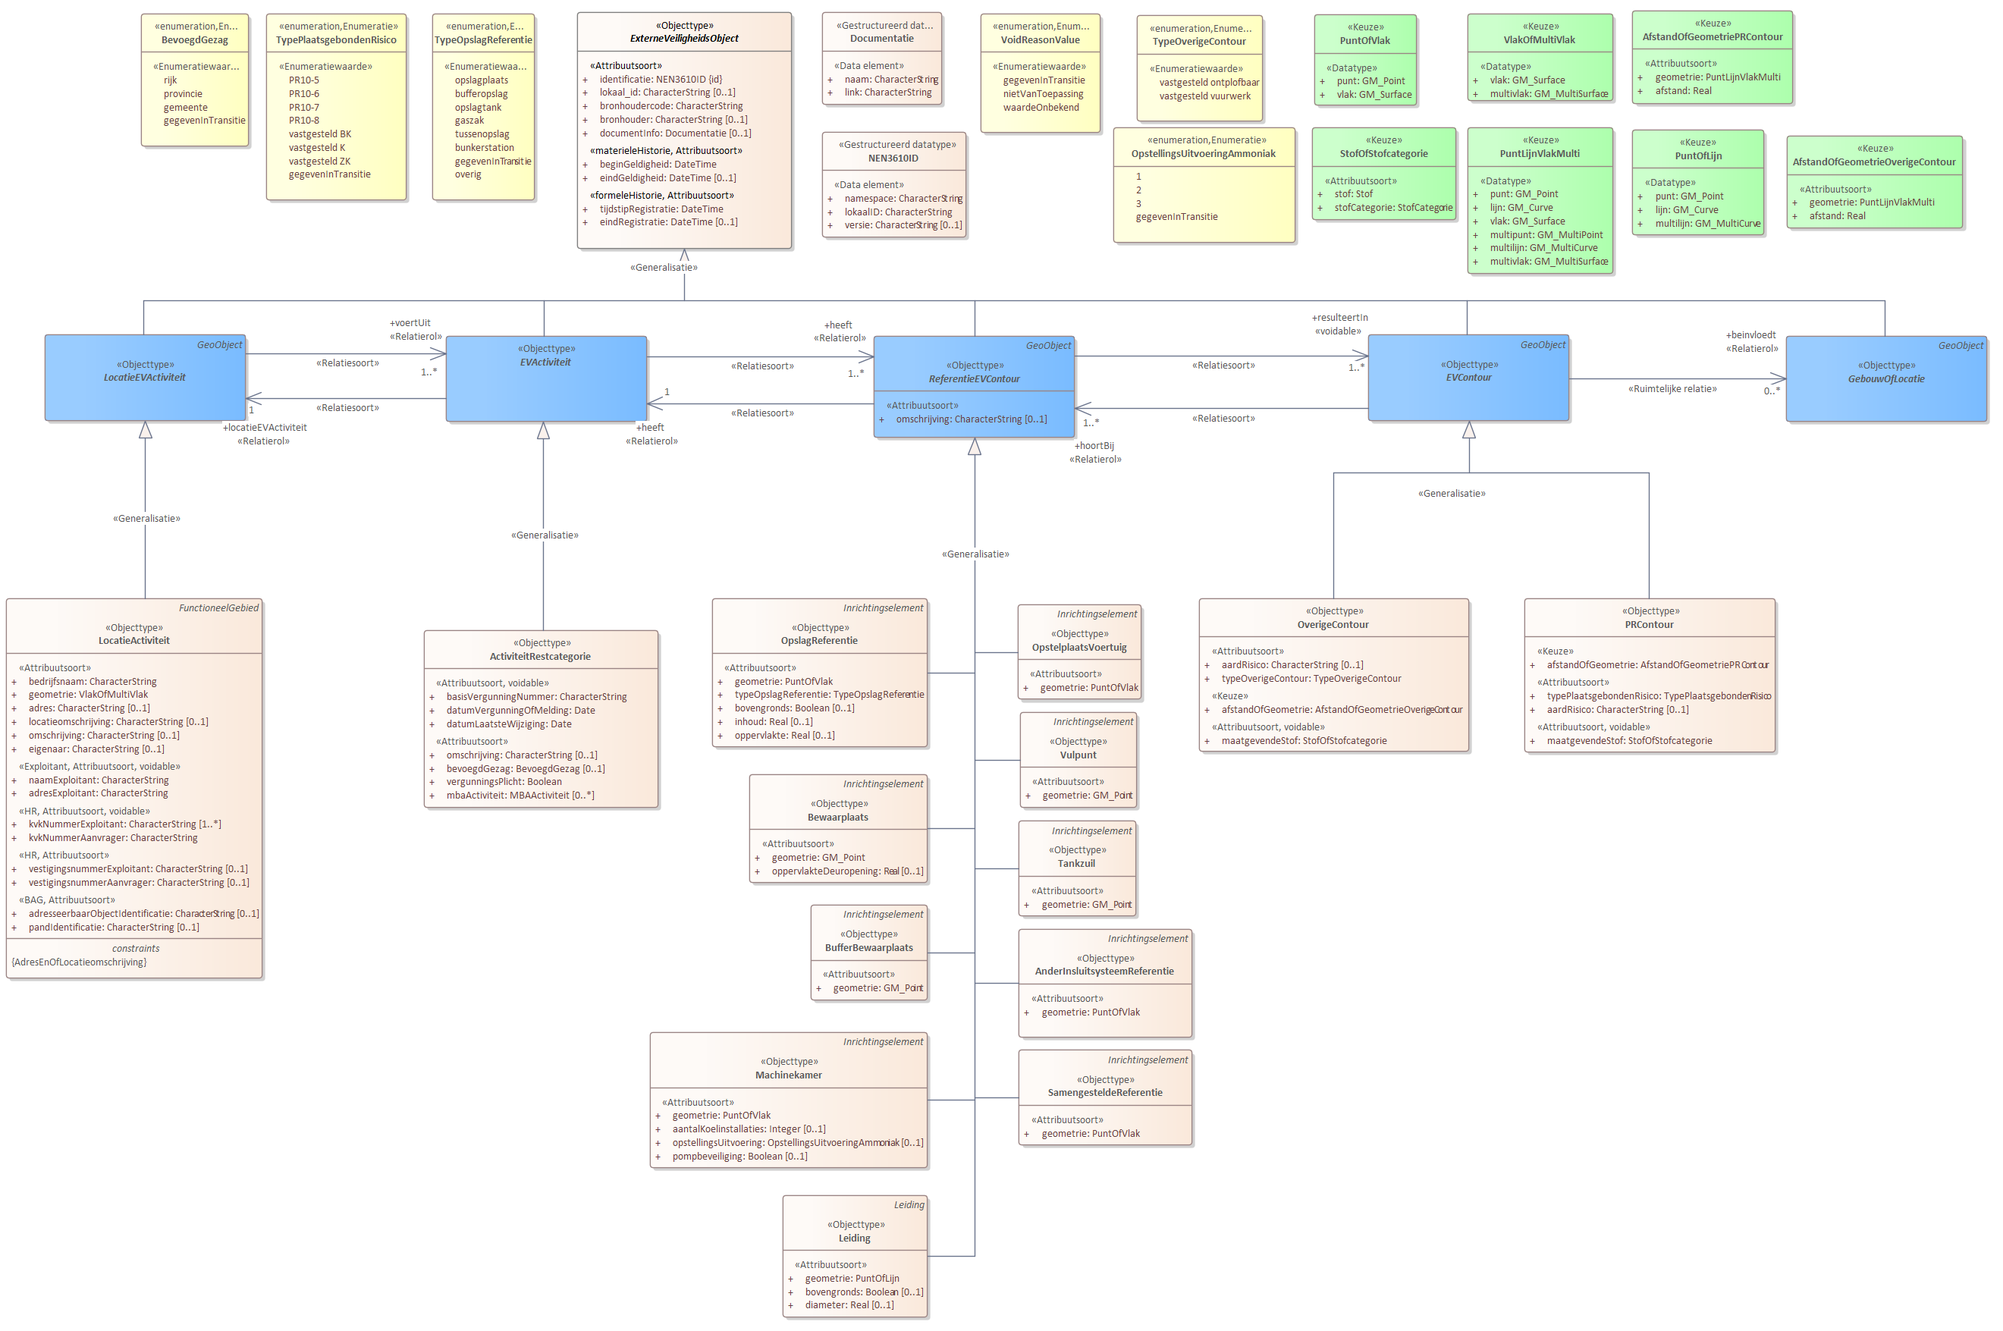
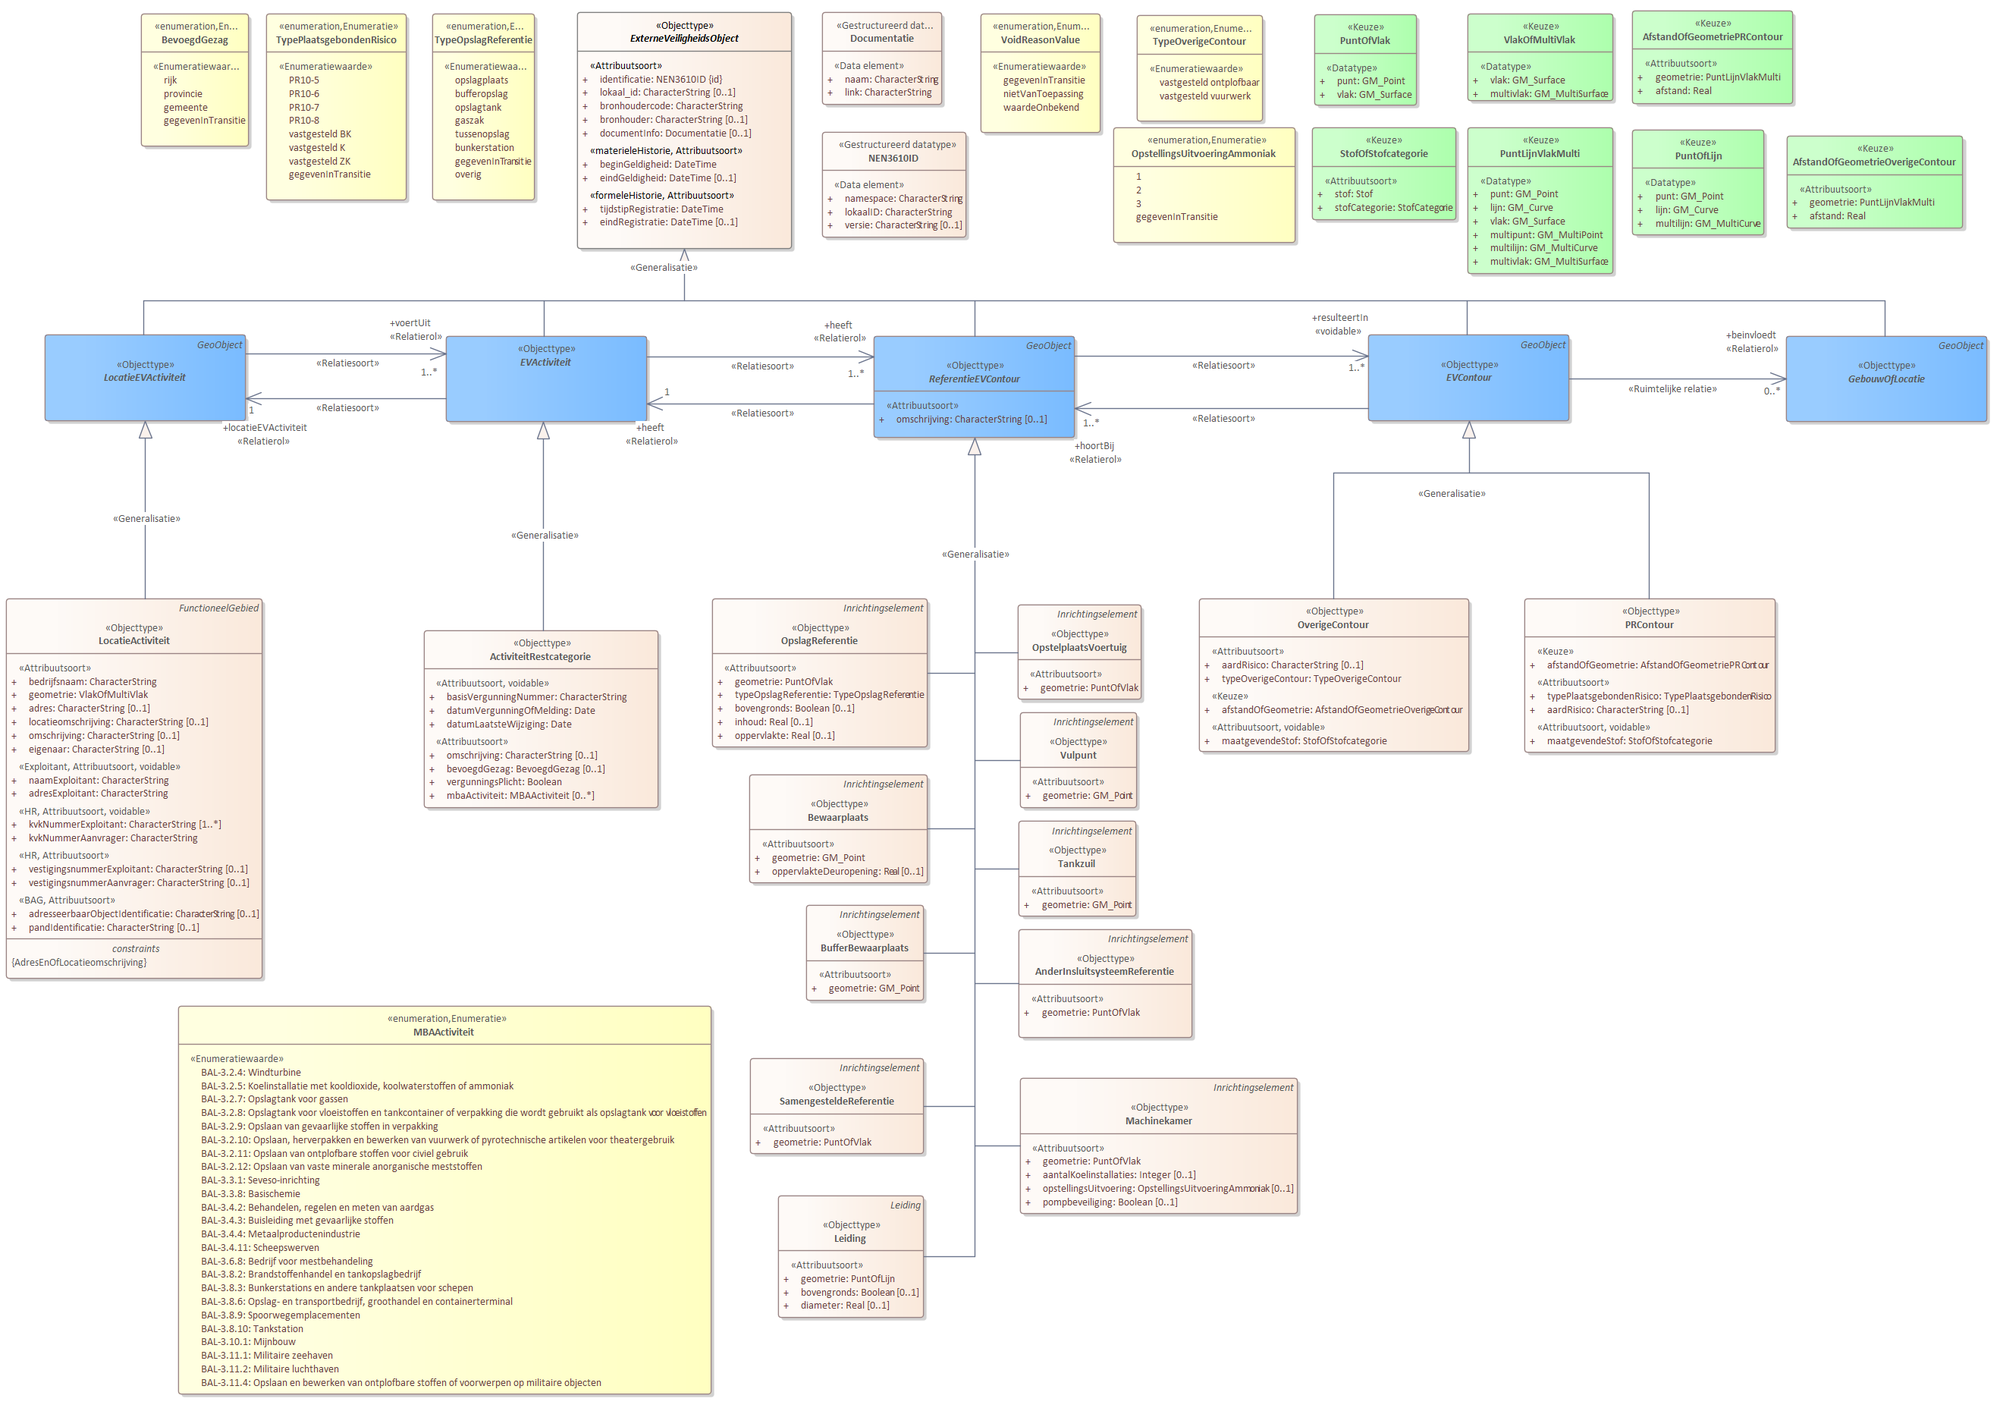
MIMCM-IMEV-conceptueel-1.1-0-20220428-20221201-110725

diff --git a/data/imev-werkomgeving-cat.respec.html b/data/imev-werkomgeving-cat.respec.html
@@ -1,7 +1,7 @@
 
 <!DOCTYPE HTML><section id="cat" class="normative">
    <h2>Gegevensdefinitie</h2>
-   <!--MIMCM-IMEV-conceptueel-1.1-0-20220428-20221201-103835 imvertor 1.65.4--><a class="anchor" id="global_package_IMEVBasis"></a><section id="global_package_IMEVBasis">
+   <!--MIMCM-IMEV-conceptueel-1.1-0-20220428-20221201-110725 imvertor 1.65.4--><a class="anchor" id="global_package_IMEVBasis"></a><section id="global_package_IMEVBasis">
       <h3>Domein   IMEV-basis</h3>
       <section id="EAID_90555E69_004F_4af9_B918_EED2BB1789DB">
          <h4>   Basismodel: kern - overzicht</h4>
@@ -2025,7 +2025,7 @@
       </section>
       <section id="EAID_7564D121_5DC8_458b_AD11_6AFDCDC1CA4E">
          <h4>   Activiteit - Restcategorie - detail</h4>
-         <div class="imageinfo "><img src="data/Images/EAID_7564D121_5DC8_458b_AD11_6AFDCDC1CA4E.png" usemap="#imagemap-EAID_7564D121_5DC8_458b_AD11_6AFDCDC1CA4E" alt="Diagram &#xA;                        &#xA;                           ActiviteitRestcategorie is gecreëerd om activiteiten die in het RRGS zitten en niet onder een BKLActiviteit geclassificeerd worden ook naar het REV te kunnen converteren. Met het attribuut omschrijving kan de activiteit omschreven of benoemd worden.&#xA;                        &#xA;                        Een aantal referentieobjecten kunnen daarbij van belang zijn:&#xA;                        &#xA;                        &#xA;                           OpslagReferentie&#xA;                           Bewaarplaats&#xA;                           BufferBewaarplaats&#xA;                           Machinekamer&#xA;                           Leiding&#xA;                        &#xA;                        &#xA;                        &#xA;                        &#xA;                           OpstelplaatsVoertuig&#xA;                           Vulpunt&#xA;                           Tankzuil&#xA;                           AnderInsluitsysteemReferentie&#xA;                           SamengesteldeReferentie&#xA;                        &#xA;                        &#xA;                        &#xA;                        Voor de EVContour zijn de volgende typen gedefinieerd:&#xA;                        &#xA;                        &#xA;                           OverigeContour&#xA;                           PRContour&#xA;                        &#xA;                        &#xA;                     "><map name="imagemap-EAID_7564D121_5DC8_458b_AD11_6AFDCDC1CA4E"><area shape="rect" alt="AfstandOfGeometrieOverigeContour" coords="2356,179,2588,301" href="#graph_EAID_2FE101FB_B97D_43fc_96B2_49895E24B14E"><area shape="rect" alt="TypeOverigeContour" coords="1499,20,1665,160" href="#graph_EAID_31999A04_22AB_4469_B3CC_88FB58FE1F3E"><area shape="rect" alt="OverigeContour" coords="1581,789,1937,991" href="#graph_EAID_CE913D5B_3645_49ed_9E84_424CD99EAB4A"><area shape="rect" alt="LocatieActiviteit" coords="8,789,346,1290" href="#graph_EAID_F20C1B1F_C128_4c2d_9542_5BAC24062B61"><area shape="rect" alt="OpstellingsUitvoeringAmmoniak" coords="1468,168,1708,320" href="#graph_EAID_D700D9D6_0AAE_4bd7_8A03_69EBEC023F2C"><area shape="rect" alt="PuntOfLijn" coords="2152,171,2326,310" href="#graph_EAID_40490449_E327_42fc_A08D_5572B5109C5A"><area shape="rect" alt="BevoegdGezag" coords="186,18,328,193" href="#graph_EAID_D3BE1A5E_BD69_4104_83C0_CFC00F934400"><area shape="rect" alt="AfstandOfGeometriePRContour" coords="2152,14,2364,137" href="#graph_EAID_34BDB83E_C2C3_4829_9FE4_6A484F51B36B"><area shape="rect" alt="PuntLijnVlakMulti" coords="1935,168,2127,361" href="#graph_EAID_BE415FD8_EEEB_443e_8A9D_579C67E2E724"><area shape="rect" alt="StofOfStofcategorie" coords="1730,168,1920,290" href="#graph_EAID_D6F9C787_BAA9_49a9_94B8_1C19A7305E84"><area shape="rect" alt="PuntOfVlak" coords="1733,19,1868,139" href="#graph_EAID_62AFE6CA_8062_41ca_A9CB_94FA3B12C8BA"><area shape="rect" alt="VlakOfMultiVlak" coords="1935,18,2127,133" href="#graph_EAID_86FCE29B_D25F_45b5_BA92_7CE173BF2EE2"><area shape="rect" alt="TypeOpslagReferentie" coords="570,18,705,264" href="#graph_EAID_2E7FA409_0A5C_43bf_8D6E_CC0CD2545337"><area shape="rect" alt="TypePlaatsgebondenRisico" coords="351,18,536,264" href="#graph_EAID_636226E1_8030_4867_B19F_BB2599140AA9"><area shape="rect" alt="ActiviteitRestcategorie" coords="559,831,868,1065" href="#graph_EAID_9FD93037_B507_4db3_96E8_60BABDE4D80C"><area shape="rect" alt="PRContour" coords="2010,789,2341,992" href="#graph_EAID_B768FDC9_8444_4437_8A41_D976631757C3"><area shape="rect" alt="SamengesteldeReferentie" coords="1343,1384,1572,1510" href="#graph_EAID_CBB1E634_0AF9_45f7_B1DE_B2DED4A65BD2"><area shape="rect" alt="AnderInsluitsysteemReferentie" coords="1343,1225,1572,1368" href="#graph_EAID_FAA895CE_3630_4116_9F46_64A4797429A8"><area shape="rect" alt="Tankzuil" coords="1343,1082,1498,1208" href="#graph_EAID_6B0C04B3_2C57_4ec8_83BB_430FB9B63635"><area shape="rect" alt="Vulpunt" coords="1345,939,1499,1065" href="#graph_EAID_5C946936_DFA1_4ad7_A7AA_DB73C06AC54E"><area shape="rect" alt="OpstelplaatsVoertuig" coords="1342,797,1505,922" href="#graph_EAID_274E1D8A_350A_4d15_995C_58A99328B763"><area shape="rect" alt="Leiding" coords="1032,1576,1223,1737" href="#graph_EAID_08FD87D1_8301_4fdc_A440_ED68C42FC343"><area shape="rect" alt="Machinekamer" coords="857,1361,1223,1540" href="#graph_EAID_7B3ADE7D_4EA4_4d13_814E_7C12A399FEAD"><area shape="rect" alt="BufferBewaarplaats" coords="1069,1193,1223,1319" href="#graph_EAID_1000536A_F7D2_4310_8929_7E7B179E516A"><area shape="rect" alt="Bewaarplaats" coords="988,1021,1223,1164" href="#graph_EAID_A79B251C_54F1_4164_ACC2_A5A2C6F4EE96"><area shape="rect" alt="OpslagReferentie" coords="939,789,1223,985" href="#graph_EAID_A0CE7A0A_9D5E_436b_8CE3_420444058145"><area shape="rect" alt="VoidReasonValue" coords="1293,18,1451,175" href="#graph_EAID_7E381468_A04E_45e9_BBBA_FCE1C66DFC50"><area shape="rect" alt="Documentatie" coords="1084,16,1242,138" href="#graph_EAID_36400497_F184_44ca_9236_B54B288ECB9C"><area shape="rect" alt="NEN3610ID" coords="1084,174,1274,313" href="#graph_EAID_F3ACE733_362C_4879_AC17_5DB8F04A22EE"><area shape="rect" alt="ExterneVeiligheidsObject" coords="761,16,1044,328" href="#graph_EAID_F0E277F8_53FE_432c_A89A_44192BD00F40"><area shape="rect" alt="ReferentieEVContour" coords="1152,443,1417,577" href="#graph_EAID_52CE468A_EFD4_456f_AE41_A37D10A734E2"><area shape="rect" alt="LocatieEVActiviteit" coords="59,441,324,555" href="#graph_EAID_F3484DF8_6A11_4275_B3F8_64B18DBC99F3"><area shape="rect" alt="GebouwOfLocatie" coords="2355,443,2620,556" href="#graph_EAID_F0CB9459_C43C_4708_A8C5_20AC024DD270"><area shape="rect" alt="EVActiviteit" coords="588,443,853,556" href="#graph_EAID_832B8803_BBCD_4b5e_A70A_A03C4CD53A87"><area shape="rect" alt="EVContour" coords="1804,441,2069,555" href="#graph_EAID_494964B8_DB08_4f6e_B3FA_1471E8E5D046"></map><p><b>Activiteit - Restcategorie - detail</b>
+         <div class="imageinfo "><img src="data/Images/EAID_7564D121_5DC8_458b_AD11_6AFDCDC1CA4E.png" usemap="#imagemap-EAID_7564D121_5DC8_458b_AD11_6AFDCDC1CA4E" alt="Diagram &#xA;                        &#xA;                           ActiviteitRestcategorie is gecreëerd om activiteiten die in het RRGS zitten en niet onder een BKLActiviteit geclassificeerd worden ook naar het REV te kunnen converteren. Met het attribuut omschrijving kan de activiteit omschreven of benoemd worden.&#xA;                        &#xA;                        Een aantal referentieobjecten kunnen daarbij van belang zijn:&#xA;                        &#xA;                        &#xA;                           OpslagReferentie&#xA;                           Bewaarplaats&#xA;                           BufferBewaarplaats&#xA;                           Machinekamer&#xA;                           Leiding&#xA;                        &#xA;                        &#xA;                        &#xA;                        &#xA;                           OpstelplaatsVoertuig&#xA;                           Vulpunt&#xA;                           Tankzuil&#xA;                           AnderInsluitsysteemReferentie&#xA;                           SamengesteldeReferentie&#xA;                        &#xA;                        &#xA;                        &#xA;                        Voor de EVContour zijn de volgende typen gedefinieerd:&#xA;                        &#xA;                        &#xA;                           OverigeContour&#xA;                           PRContour&#xA;                        &#xA;                        &#xA;                     "><map name="imagemap-EAID_7564D121_5DC8_458b_AD11_6AFDCDC1CA4E"><area shape="rect" alt="MBAActiviteit" coords="235,1326,938,1838" href="#graph_EAID_AFF61D99_A018_4c68_A521_5A691AE66644"><area shape="rect" alt="AfstandOfGeometrieOverigeContour" coords="2356,179,2588,301" href="#graph_EAID_2FE101FB_B97D_43fc_96B2_49895E24B14E"><area shape="rect" alt="TypeOverigeContour" coords="1499,20,1665,160" href="#graph_EAID_31999A04_22AB_4469_B3CC_88FB58FE1F3E"><area shape="rect" alt="OverigeContour" coords="1581,789,1937,991" href="#graph_EAID_CE913D5B_3645_49ed_9E84_424CD99EAB4A"><area shape="rect" alt="LocatieActiviteit" coords="8,789,346,1290" href="#graph_EAID_F20C1B1F_C128_4c2d_9542_5BAC24062B61"><area shape="rect" alt="OpstellingsUitvoeringAmmoniak" coords="1468,168,1708,320" href="#graph_EAID_D700D9D6_0AAE_4bd7_8A03_69EBEC023F2C"><area shape="rect" alt="PuntOfLijn" coords="2152,171,2326,310" href="#graph_EAID_40490449_E327_42fc_A08D_5572B5109C5A"><area shape="rect" alt="BevoegdGezag" coords="186,18,328,193" href="#graph_EAID_D3BE1A5E_BD69_4104_83C0_CFC00F934400"><area shape="rect" alt="AfstandOfGeometriePRContour" coords="2152,14,2364,137" href="#graph_EAID_34BDB83E_C2C3_4829_9FE4_6A484F51B36B"><area shape="rect" alt="PuntLijnVlakMulti" coords="1935,168,2127,361" href="#graph_EAID_BE415FD8_EEEB_443e_8A9D_579C67E2E724"><area shape="rect" alt="StofOfStofcategorie" coords="1730,168,1920,290" href="#graph_EAID_D6F9C787_BAA9_49a9_94B8_1C19A7305E84"><area shape="rect" alt="PuntOfVlak" coords="1733,19,1868,139" href="#graph_EAID_62AFE6CA_8062_41ca_A9CB_94FA3B12C8BA"><area shape="rect" alt="VlakOfMultiVlak" coords="1935,18,2127,133" href="#graph_EAID_86FCE29B_D25F_45b5_BA92_7CE173BF2EE2"><area shape="rect" alt="TypeOpslagReferentie" coords="570,18,705,264" href="#graph_EAID_2E7FA409_0A5C_43bf_8D6E_CC0CD2545337"><area shape="rect" alt="TypePlaatsgebondenRisico" coords="351,18,536,264" href="#graph_EAID_636226E1_8030_4867_B19F_BB2599140AA9"><area shape="rect" alt="ActiviteitRestcategorie" coords="559,831,868,1065" href="#graph_EAID_9FD93037_B507_4db3_96E8_60BABDE4D80C"><area shape="rect" alt="PRContour" coords="2010,789,2341,992" href="#graph_EAID_B768FDC9_8444_4437_8A41_D976631757C3"><area shape="rect" alt="SamengesteldeReferentie" coords="989,1395,1218,1521" href="#graph_EAID_CBB1E634_0AF9_45f7_B1DE_B2DED4A65BD2"><area shape="rect" alt="AnderInsluitsysteemReferentie" coords="1343,1225,1572,1368" href="#graph_EAID_FAA895CE_3630_4116_9F46_64A4797429A8"><area shape="rect" alt="Tankzuil" coords="1343,1082,1498,1208" href="#graph_EAID_6B0C04B3_2C57_4ec8_83BB_430FB9B63635"><area shape="rect" alt="Vulpunt" coords="1345,939,1499,1065" href="#graph_EAID_5C946936_DFA1_4ad7_A7AA_DB73C06AC54E"><area shape="rect" alt="OpstelplaatsVoertuig" coords="1342,797,1505,922" href="#graph_EAID_274E1D8A_350A_4d15_995C_58A99328B763"><area shape="rect" alt="Leiding" coords="1026,1576,1218,1737" href="#graph_EAID_08FD87D1_8301_4fdc_A440_ED68C42FC343"><area shape="rect" alt="Machinekamer" coords="1345,1421,1711,1600" href="#graph_EAID_7B3ADE7D_4EA4_4d13_814E_7C12A399FEAD"><area shape="rect" alt="BufferBewaarplaats" coords="1063,1193,1218,1319" href="#graph_EAID_1000536A_F7D2_4310_8929_7E7B179E516A"><area shape="rect" alt="Bewaarplaats" coords="988,1021,1223,1164" href="#graph_EAID_A79B251C_54F1_4164_ACC2_A5A2C6F4EE96"><area shape="rect" alt="OpslagReferentie" coords="939,789,1223,985" href="#graph_EAID_A0CE7A0A_9D5E_436b_8CE3_420444058145"><area shape="rect" alt="VoidReasonValue" coords="1293,18,1451,175" href="#graph_EAID_7E381468_A04E_45e9_BBBA_FCE1C66DFC50"><area shape="rect" alt="Documentatie" coords="1084,16,1242,138" href="#graph_EAID_36400497_F184_44ca_9236_B54B288ECB9C"><area shape="rect" alt="NEN3610ID" coords="1084,174,1274,313" href="#graph_EAID_F3ACE733_362C_4879_AC17_5DB8F04A22EE"><area shape="rect" alt="ExterneVeiligheidsObject" coords="761,16,1044,328" href="#graph_EAID_F0E277F8_53FE_432c_A89A_44192BD00F40"><area shape="rect" alt="ReferentieEVContour" coords="1152,443,1417,577" href="#graph_EAID_52CE468A_EFD4_456f_AE41_A37D10A734E2"><area shape="rect" alt="LocatieEVActiviteit" coords="59,441,324,555" href="#graph_EAID_F3484DF8_6A11_4275_B3F8_64B18DBC99F3"><area shape="rect" alt="GebouwOfLocatie" coords="2355,443,2620,556" href="#graph_EAID_F0CB9459_C43C_4708_A8C5_20AC024DD270"><area shape="rect" alt="EVActiviteit" coords="588,443,853,556" href="#graph_EAID_832B8803_BBCD_4b5e_A70A_A03C4CD53A87"><area shape="rect" alt="EVContour" coords="1804,441,2069,555" href="#graph_EAID_494964B8_DB08_4f6e_B3FA_1471E8E5D046"></map><p><b>Activiteit - Restcategorie - detail</b>
                
                <p>
                   <b>ActiviteitRestcategorie</b> is gecreëerd om activiteiten die in het RRGS zitten en niet onder een BKLActiviteit
@@ -2774,6 +2774,13 @@
                   <tr>
                      <th>Naam</th>
                      <td>BuisleidingReferentie</td>
+                  </tr>
+                  <tr>
+                     <th>Definitie</th>
+                     <td>
+                        
+                        <p>Een buisleiding als referentieobject voor het bepalen van de referentiecontour.</p>
+                        </td>
                   </tr>
                </tbody>
             </table>
@@ -7095,7 +7102,10 @@
                      <td>
                         <a class="link" href="#detail_attribute_IMEVBasis_BevoorradingCategorieOfExactAantal_categorie">categorie</a>
                         </td>
-                     <td></td>
+                     <td>
+                        
+                        <p>Het aantal bevoorradingen uitgedrukt in een categorie.</p>
+                        </td>
                      <td>
                         <a class="link" href="#global_class_Waardelijsten_CategorieAantalBevoorradingen">CategorieAantalBevoorradingen</a>
                         </td>
@@ -7105,7 +7115,10 @@
                      <td>
                         <a class="link" href="#detail_attribute_IMEVBasis_BevoorradingCategorieOfExactAantal_exactAantal">exactAantal</a>
                         </td>
-                     <td></td>
+                     <td>
+                        
+                        <p>Het aantal bevoorradingen uitgedrukt in een getal.</p>
+                        </td>
                      <td>
                         <a class="external-link" href="https://geonovum.github.io/MIM-Werkomgeving/#primitive-datatypes">Integer</a>
                         </td>
@@ -13071,6 +13084,13 @@
                            <td>categorie</td>
                         </tr>
                         <tr>
+                           <th>Definitie</th>
+                           <td>
+                              
+                              <p>Het aantal bevoorradingen uitgedrukt in een categorie.</p>
+                              </td>
+                        </tr>
+                        <tr>
                            <th>Toelichting</th>
                            <td>Een inhoudelijke toelichting op de toepassing van het informatie-element.</td>
                         </tr>
@@ -13106,6 +13126,13 @@
                         <tr>
                            <th>Naam</th>
                            <td>exactAantal</td>
+                        </tr>
+                        <tr>
+                           <th>Definitie</th>
+                           <td>
+                              
+                              <p>Het aantal bevoorradingen uitgedrukt in een getal.</p>
+                              </td>
                         </tr>
                         <tr>
                            <th>Toelichting</th>
@@ -17503,7 +17530,10 @@
                      <td>
                         <a class="link" href="#detail_attribute_BKLActiviteiten_ActiviteitRestcategorie_mbaActiviteit">mbaActiviteit</a>
                         </td>
-                     <td></td>
+                     <td>
+                        
+                        <p>Milieubelastende activiteit zoals benoemd in het Bal.</p>
+                        </td>
                      <td>
                         <a class="link" href="#global_class_Waardelijsten_MBAActiviteit">MBAActiviteit</a>
                         </td>
@@ -19313,6 +19343,13 @@
                            <td>mbaActiviteit</td>
                         </tr>
                         <tr>
+                           <th>Definitie</th>
+                           <td>
+                              
+                              <p>Milieubelastende activiteit zoals benoemd in het Bal.</p>
+                              </td>
+                        </tr>
+                        <tr>
                            <th>Toelichting</th>
                            <td>Een inhoudelijke toelichting op de toepassing van het informatie-element.</td>
                         </tr>
@@ -19568,7 +19605,7 @@
 </section>
 <section id="lis" class="normative">
    <h2>Inhoud van waardenlijsten</h2>
-   <!--MIMCM-IMEV-conceptueel-1.1-0-20220428-20221201-103835 imvertor 1.65.4-->
+   <!--MIMCM-IMEV-conceptueel-1.1-0-20220428-20221201-110725 imvertor 1.65.4-->
    <section id="">
       <h3>Referentielijst inhoud   </h3>
    </section>
